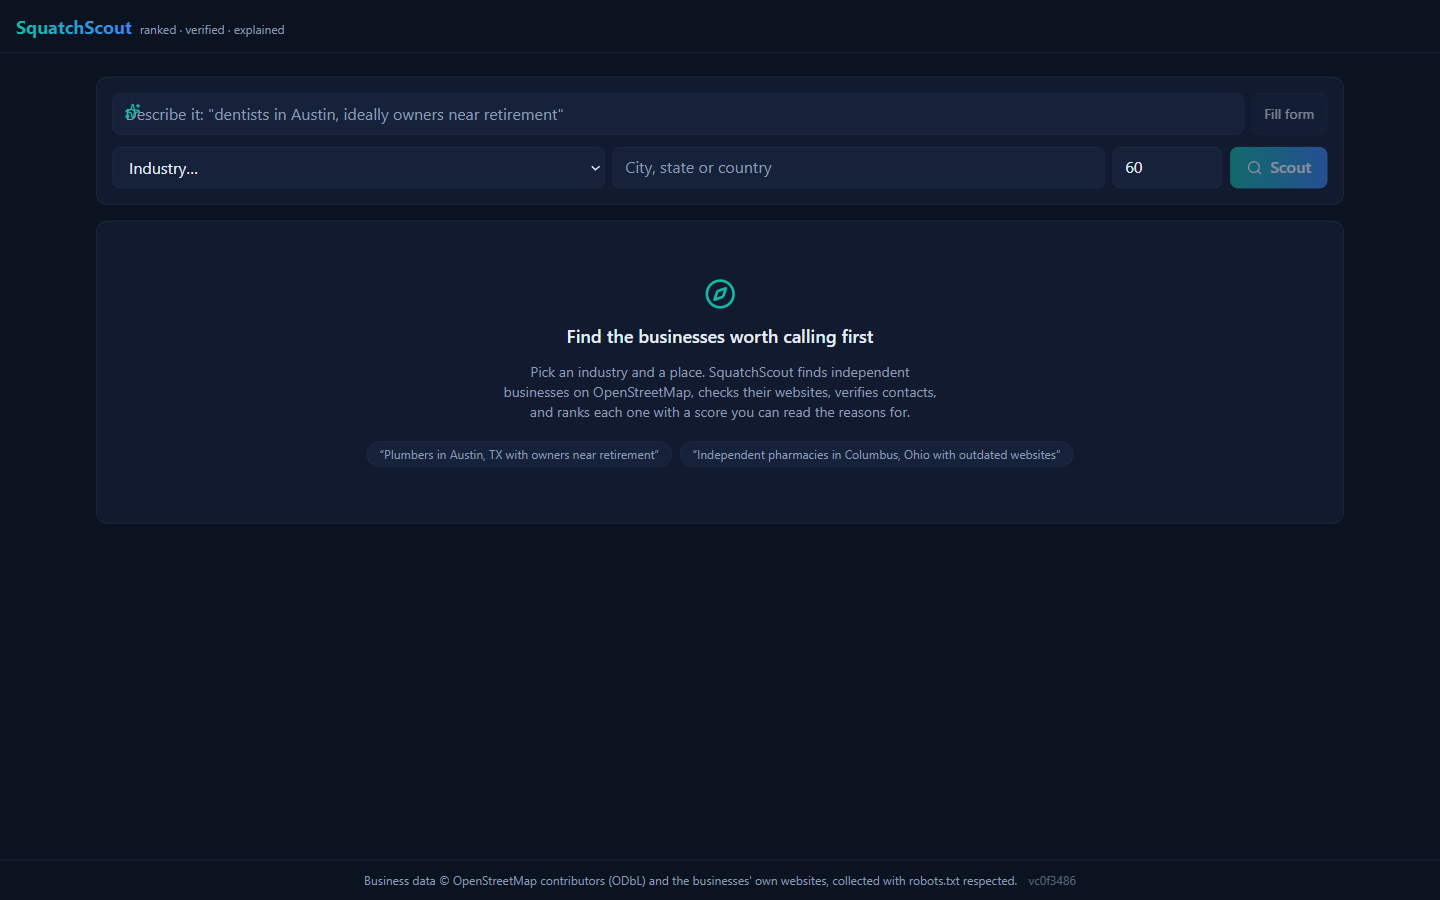
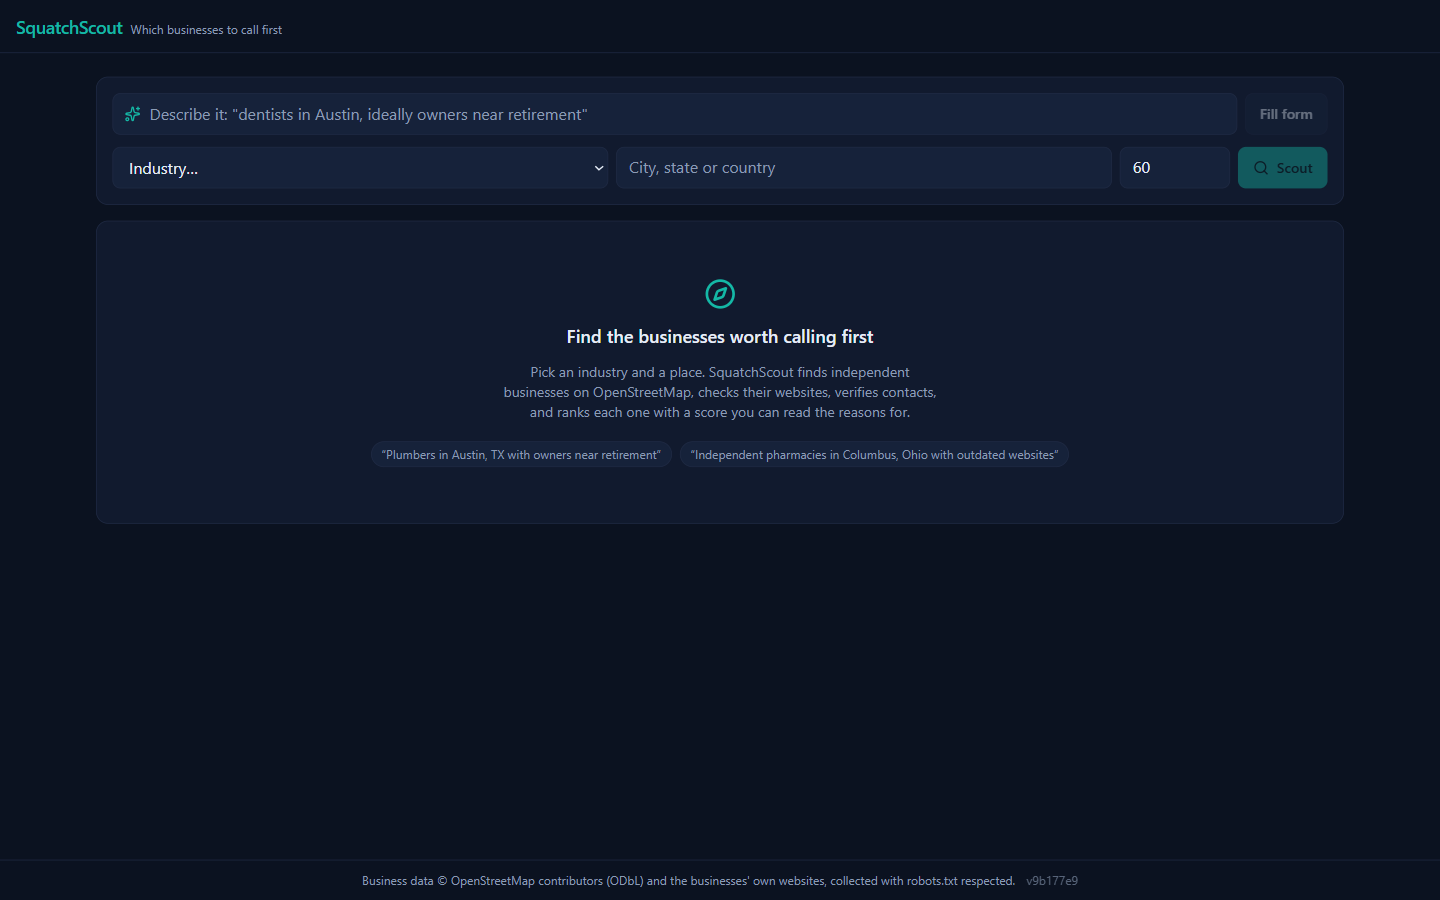
style(web): set the drafted opener in the body face
It was rendered in a <pre>, so a line someone reads down a phone came out
in monospace. Keeps the preserved line breaks, drops the typewriter.

Also refreshes the three README screenshots, which still showed the
gradient buttons and the icon sitting on the placeholder text.

diff --git a/web/src/components/OpenerPanel.tsx b/web/src/components/OpenerPanel.tsx
@@ -18,7 +18,8 @@ export function OpenerPanel({ leadId }: { leadId: string }) {
     <div className="flex flex-col gap-2">
       {text ? (
         <>
-          <pre className="whitespace-pre-wrap rounded-lg border border-border bg-surface-2 p-3 text-sm">{text}</pre>
+          {/* Prose someone reads down a phone line, so sans and a normal measure, not <pre>'s monospace. */}
+          <p className="whitespace-pre-wrap rounded-lg border border-border bg-surface-2 p-3 text-sm leading-relaxed">{text}</p>
           <div className="flex gap-2">
             <button type="button" onClick={() => navigator.clipboard?.writeText(text).catch(() => setErr("Couldn't copy. Select the text above instead."))} className="btn-quiet"><Copy className="size-3" aria-hidden /> Copy</button>
             <button type="button" onClick={draft} disabled={busy} className="btn-quiet">Redraft</button>
